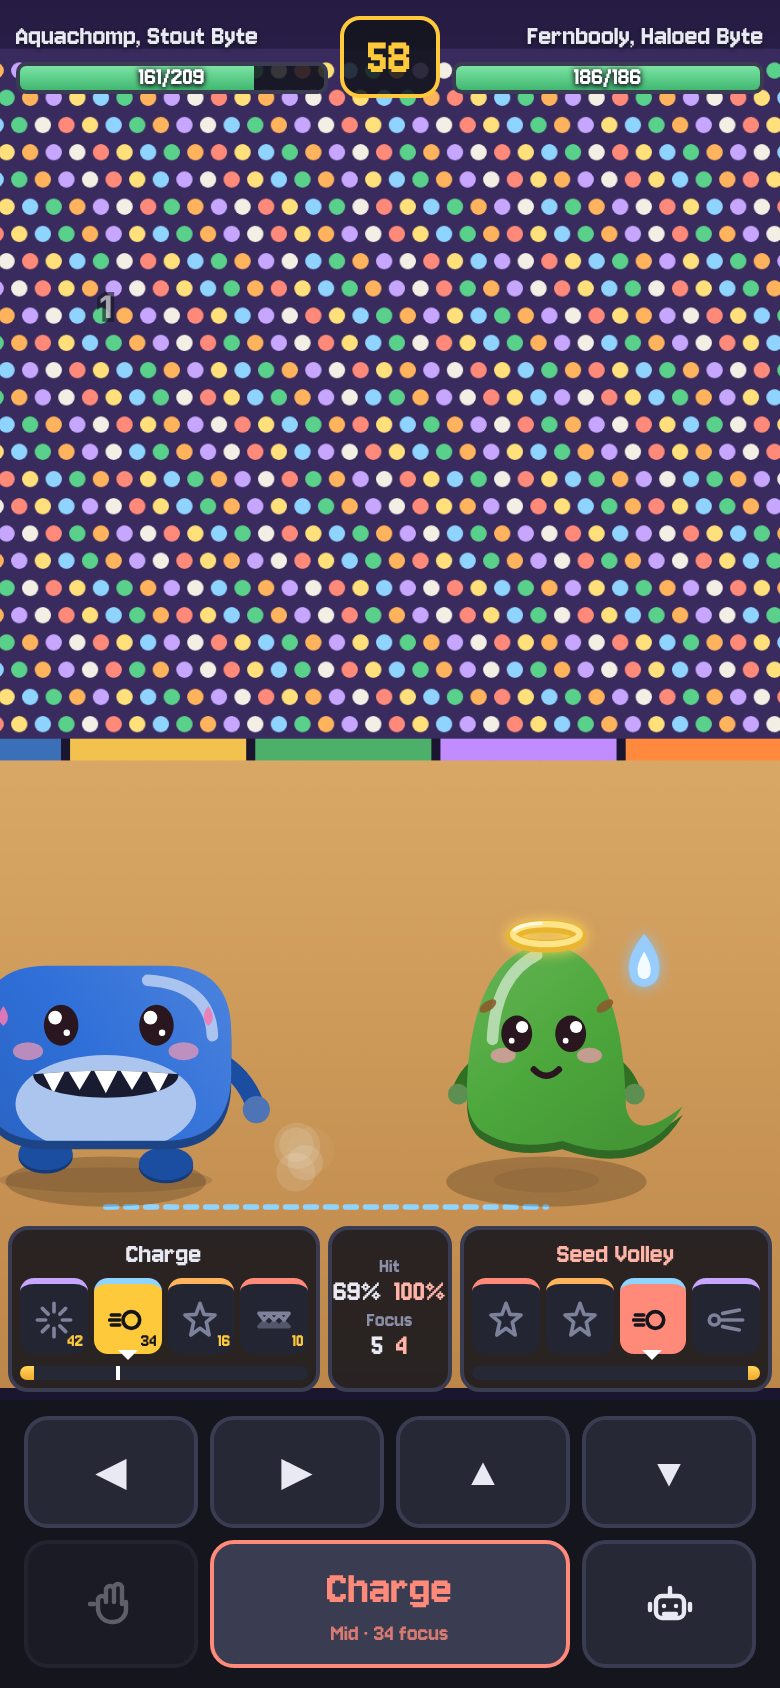
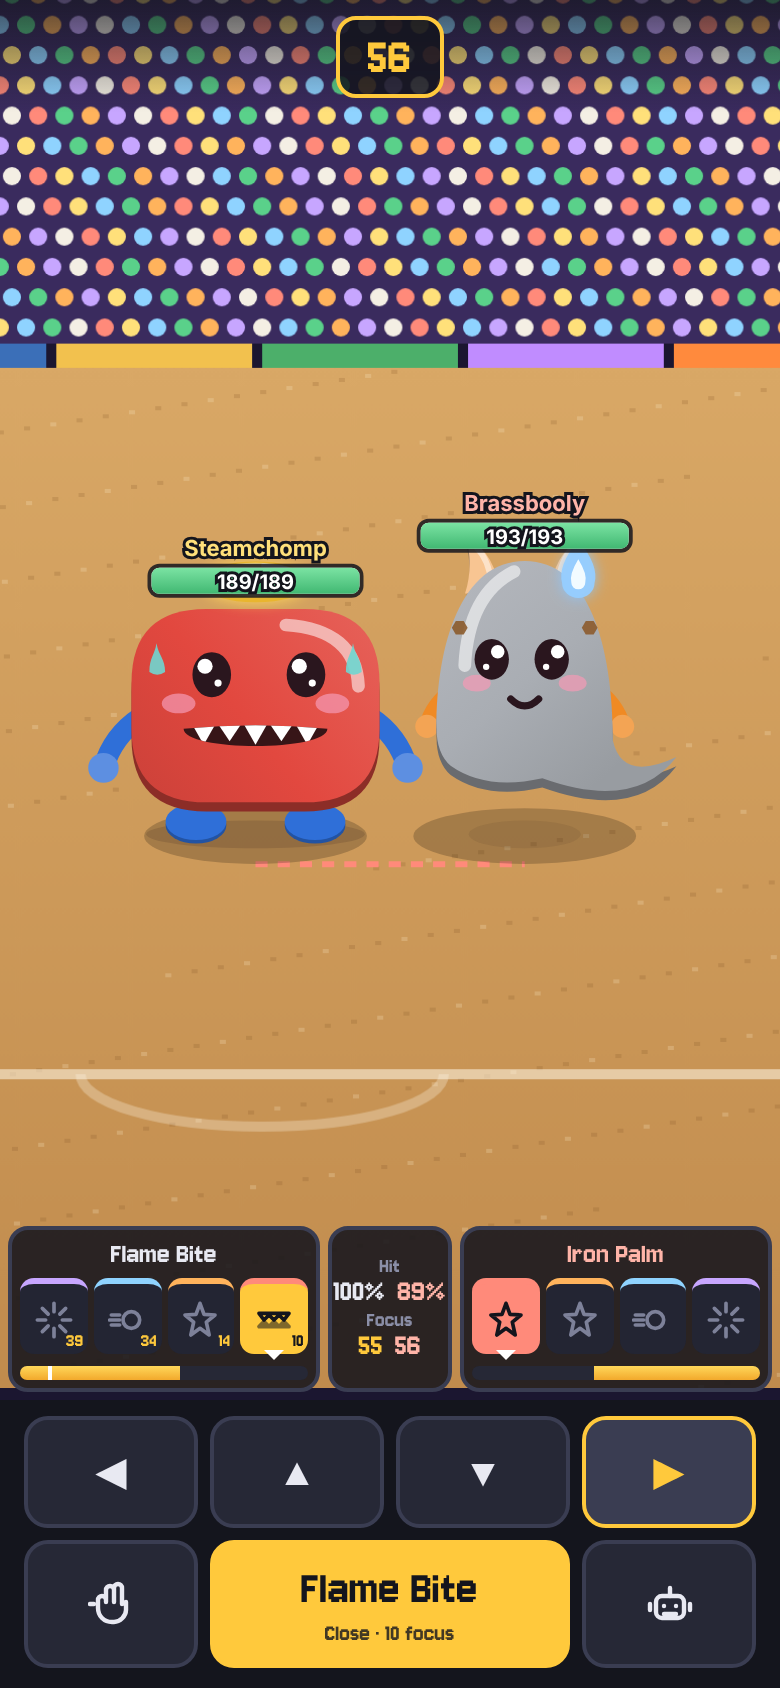
Fight screen: ◀ far left, ▶ far right, ▲ ▼ between; walking up to the foe no longer slides its sprite back
Claude-Session: https://claude.ai/code/session_01MQWzxUjVm8ojsjAXsvRGrb

diff --git a/prototype/arena-ui.js b/prototype/arena-ui.js
@@ -107,8 +107,8 @@ function atStart(meFam,foeFam){   // picks: see atMake
       <div class="hbot" id="at-hbot"><div class="side me"><div class="mv" id="at-mv0"></div><div class="strip">${cells(0)}</div><div class="fob" id="at-fb0"><i id="at-fo0"></i><span class="need" id="at-need"></span></div></div>
         <div class="mid"><div><span>Hit</span><b><i id="at-hit0"></i><em id="at-hit1"></em></b></div><div><span>Focus</span><b><i id="at-fn0"></i><em id="at-fn1"></em></b></div></div>
         <div class="side foe"><div class="mv" id="at-mv1"></div><div class="strip">${cells(1)}</div><div class="fob"><i id="at-fo1"></i></div></div></div></div>
-    <div class="ctl3"><button class="btn walk" id="at-l" aria-label="Back off">◀</button><button class="btn walk" id="at-r" aria-label="Close in">▶</button>
-      <button class="btn arr" id="at-up" aria-label="Previous move for this range">▲</button><button class="btn arr" id="at-dn" aria-label="Next move for this range">▼</button>
+    <div class="ctl3"><button class="btn walk" id="at-l" aria-label="Back off">◀</button>
+      <button class="btn arr" id="at-up" aria-label="Previous move for this range">▲</button><button class="btn arr" id="at-dn" aria-label="Next move for this range">▼</button><button class="btn walk" id="at-r" aria-label="Close in">▶</button>
       <button class="btn ico" id="at-shove" aria-label="Shove">${AT_ICON.shove}</button><button class="btn atk" id="at-atk"><span id="at-atk-n">Attack</span><small id="at-atk-c"></small></button><button class="btn ico" id="at-auto" aria-label="Auto">${AT_ICON.auto}</button></div>`;
   const hold=(id,rel)=>{ const b=document.getElementById(id), on=e=>{ e.preventDefault(); ar.p[0].wantRel=rel; b.classList.add("on"); }, off=()=>{ if(ar.p[0].wantRel===rel) ar.p[0].wantRel=0; b.classList.remove("on"); };
     b.addEventListener("pointerdown",on); b.addEventListener("pointerup",off); b.addEventListener("pointercancel",off); b.addEventListener("pointerleave",off); };
@@ -242,17 +242,17 @@ function atDraw(now,dte){
   if(!AT.bg){ const b=document.createElement("canvas"); b.width=WW*dpr; b.height=HH*dpr; const x=b.getContext("2d"); x.scale(dpr,dpr); atStage(x,WW,HH,FY); AT.bg=b; }
   const shake=AT.trauma*AT.trauma*7; AT.trauma=Math.max(0,AT.trauma-dte/700);
   const sx=shake?Math.sin(te/23)*shake:0, sy=shake?Math.cos(te/31)*shake*0.6:0;
-  const floor=FY, X=x=>70+x/AR.LEN*(WW-140), scale=2.3, alpha=Math.min(1,AT.acc/AR.DT);
+  const floor=FY, scale=2.3, SEP=(58*scale-AR.BODY/AR.LEN*(WW-140))/(1-AR.BODY/AR.LEN), K=(WW-140-SEP)/AR.LEN, X=(x,right)=>70+x*K+(right?SEP:0), alpha=Math.min(1,AT.acc/AR.DT);
   // glide between engine steps, then ease toward that so pushes and swaps slide instead of jumping
   // your Snabit always stands on the left: when it ends up on the right (a swap), the arena turns round in a quick flip
   const wantMir=ar.p[0].x>ar.p[1].x;
   if(AT.mirror==null) AT.mirror=wantMir;
   if(wantMir!==AT.mirror&&!AT.flip) AT.flip={t0:te};
   let flipK=0; if(AT.flip){ flipK=(te-AT.flip.t0)/360; if(flipK>=0.5&&AT.mirror!==wantMir){ AT.mirror=wantMir; AT.snap=true; } if(flipK>=1){ AT.flip=null; flipK=0; } }
-  ar.p.forEach((p,i)=>{ const S=AT.side[i], e=p.px==null?p.x:p.px+(p.x-p.px)*alpha, want=X(AT.mirror?AR.LEN-e:e);
+  const shown=ar.p.map(p=>{ const e=p.px==null?p.x:p.px+(p.x-p.px)*alpha; return AT.mirror?AR.LEN-e:e; });
+  ar.p.forEach((p,i)=>{ const S=AT.side[i], want=X(shown[i],shown[i]>shown[1-i]||shown[i]===shown[1-i]&&i===1);
     S.x=S.x==null||AT.snap?want:S.x+(want-S.x)*(1-Math.exp(-dte/45)); });
-  { const a=AT.side[0], b=AT.side[1], min=58*scale, gap=Math.abs(b.x-a.x);
-    if(gap<min){ const mid=Math.max(70+min/2,Math.min(WW-70-min/2,(a.x+b.x)/2)), s=b.x>=a.x?1:-1; a.dx=mid-s*min/2; b.dx=mid+s*min/2; } else { a.dx=a.x; b.dx=b.x; } }
+  AT.side.forEach(S=>{ S.dx=S.x; });
   // the camera zooms with the gap, MR2 style: in close when they're face to face, pulled back to both walls when they're far apart
   { const a=AT.side[0].dx, b=AT.side[1].dx, V=Math.max(W/1.35,Math.min(WW,Math.abs(b-a)+110*scale)), z=W/V;
     AT.zoom=AT.zoom==null||AT.snap?z:AT.zoom+(z-AT.zoom)*(1-Math.exp(-dte/260));

diff --git a/docs/art/HANDOUT.md b/docs/art/HANDOUT.md
@@ -199,7 +199,7 @@ Gid caught AI slop in the storyboard lines on 12 Nov 2026 because the skills wer
 
 ## Next
 
-- **The new arena (in progress, 14 Nov 2026).** Gid approved a real-time arena: a line between two walls, the Snabits facing the camera and looking at each other, four range bands (Close, Near, Mid, Far), focus that fills over time, Shove at Close, swap moves, push and pull, and a scrolling move list in place of the 4-slot loadout. The plan and every family's moveset are in the doc https://claude.ai/artifact/D3krLg77oc8unWRzAbfRLC, the mockup is `docs/art/arena-mockup.png`, and the engine is `prototype/arena.js` (not loaded by the game yet). Stamina fills focus, Mind adds Wither strength, Insight resists Wither. Gid approved the doc on 14 Nov 2026: 60-second fights, a free Shove with a 1.5 second wait, the move names, a walking speed per family (`FAM_WALK`), each family's first move taking its element (`EL_PREFIX`), and every element skill kept. The test arena is `prototype/arena-ui.js`, opened from Practice battle on the title screen or with `#arena` at the end of the address. The fight screen (14 Nov 2026) has the arena on top, 1.7 screens wide with a camera that follows both Snabits. Since 14 Nov 2026 the range cells sit on the fight screen the MR2 way: your four cells top left read Far, Mid, Near, Close toward the middle, the opponent's four top right read Close, Near, Mid, Far outward, and the pair for the range you're both in lights up. Your Snabit always stands on the left, so ◀ always backs off and ▶ always closes in (`wantRel` in the engine). After a swap the arena does a 0.36 second turn-around flip so you land back on the left. Later the same day the layout moved fully onto the fight screen like MR2's: the clock at the top, each Snabit's name and HP bar over its head (a white strip shows the damage just taken and drains after a moment), and at the bottom of the fight each side's current move name over its row of four range icons, with Hit % and Focus for both sides in a box between them (`hitChance` in the engine). The Snabits stand a little below the middle of the fight (feet at 60% of its height) so the clock stays in view, with grained sand and a painted ring line in front of them. The camera zooms with the gap, pulled back to show both walls when they're far apart and close in when they're face to face (`docs/art/arena-zoom.png` shows Far, Mid and Close). Under the fight are ◀ ▶ ▲ ▼ on one row and Shove, a big Attack button and Auto on the next. ▲ ▼ change the move for the range you're standing in, and Attack shows that move's name, range and focus cost, going grey with a red edge when focus is short. Practice can use a ranch Snabit as it is (the opponent matches its level and grade), a fresh scan trained to level 30 (the scan card shows Practice with it), or a family preset at level 30. Moves are turns, the MR2 way (14 Nov 2026): whoever acts first goes, the fight and the clock stop while the move plays its full animation from the battle's `ANIM`, then both carry on. The computer takes 0.35 to 0.7 seconds to react, and a Snabit waits 0.6 seconds after its own move before it can act again. In the second balance run families won 39% to 65%. Next: Gid plays the test arena, tune from his feedback, then the full switch (re-aim the attack animations, cups, wild fights and Auto on the new engine).
+- **The new arena (in progress, 14 Nov 2026).** Gid approved a real-time arena: a line between two walls, the Snabits facing the camera and looking at each other, four range bands (Close, Near, Mid, Far), focus that fills over time, Shove at Close, swap moves, push and pull, and a scrolling move list in place of the 4-slot loadout. The plan and every family's moveset are in the doc https://claude.ai/artifact/D3krLg77oc8unWRzAbfRLC, the mockup is `docs/art/arena-mockup.png`, and the engine is `prototype/arena.js` (not loaded by the game yet). Stamina fills focus, Mind adds Wither strength, Insight resists Wither. Gid approved the doc on 14 Nov 2026: 60-second fights, a free Shove with a 1.5 second wait, the move names, a walking speed per family (`FAM_WALK`), each family's first move taking its element (`EL_PREFIX`), and every element skill kept. The test arena is `prototype/arena-ui.js`, opened from Practice battle on the title screen or with `#arena` at the end of the address. The fight screen (14 Nov 2026) has the arena on top, 1.7 screens wide with a camera that follows both Snabits. Since 14 Nov 2026 the range cells sit on the fight screen the MR2 way: your four cells top left read Far, Mid, Near, Close toward the middle, the opponent's four top right read Close, Near, Mid, Far outward, and the pair for the range you're both in lights up. Your Snabit always stands on the left, so ◀ always backs off and ▶ always closes in (`wantRel` in the engine). After a swap the arena does a 0.36 second turn-around flip so you land back on the left. Later the same day the layout moved fully onto the fight screen like MR2's: the clock at the top, each Snabit's name and HP bar over its head (a white strip shows the damage just taken and drains after a moment), and at the bottom of the fight each side's current move name over its row of four range icons, with Hit % and Focus for both sides in a box between them (`hitChance` in the engine). The Snabits stand a little below the middle of the fight (feet at 60% of its height) so the clock stays in view, with grained sand and a painted ring line in front of them. The camera zooms with the gap, pulled back to show both walls when they're far apart and close in when they're face to face (`docs/art/arena-zoom.png` shows Far, Mid and Close). Walking never pushes: you stop when you reach the opponent's body, and each Snabit is drawn from its own spot only with one body's width built into the spacing (`SEP` in `atDraw`), so the other sprite never slides back. Only knockback (Shove and push moves) moves the opponent, so a Snabit only gets cornered by backing off while the foe advances or by being knocked back. Under the fight are ◀ ▲ ▼ ▶ on one row (back off at the far left, close in at the far right) and Shove, a big Attack button and Auto on the next. ▲ ▼ change the move for the range you're standing in, and Attack shows that move's name, range and focus cost, going grey with a red edge when focus is short. Practice can use a ranch Snabit as it is (the opponent matches its level and grade), a fresh scan trained to level 30 (the scan card shows Practice with it), or a family preset at level 30. Moves are turns, the MR2 way (14 Nov 2026): whoever acts first goes, the fight and the clock stop while the move plays its full animation from the battle's `ANIM`, then both carry on. The computer takes 0.35 to 0.7 seconds to react, and a Snabit waits 0.6 seconds after its own move before it can act again. In the second balance run families won 39% to 65%. Next: Gid plays the test arena, tune from his feedback, then the full switch (re-aim the attack animations, cups, wild fights and Auto on the new engine).
 - Computer opponents don't use signature skills yet.
 - An NPC who reveals a Snabit's growth ranks and lifespan for a fee.
 - Remove the gallery button from the Snaboscope.
